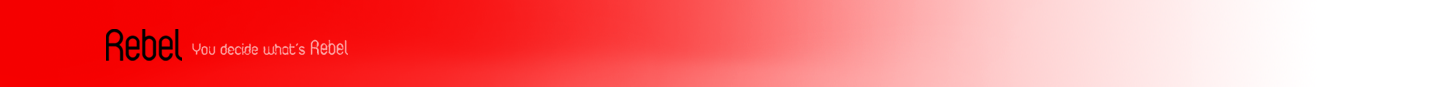
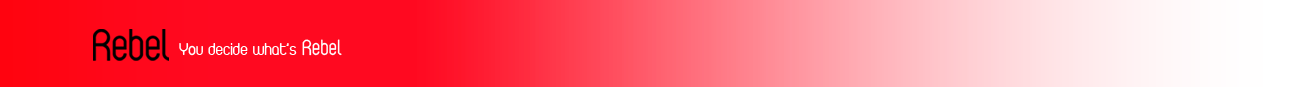
ja se comeca a parecer qq coisa

Changed region(s): [[0.0619, 0.0, 0.2784, 0.7816], [0.2784, 0.7126, 0.6187, 1.0]]

diff --git a/contrast/style.css b/contrast/style.css
@@ -96,7 +96,8 @@ a {
 		width: 1200px;
 		height: 80px;
 		text-indent: -9999px;
-		background: url('assets/images/logo.png') no-repeat;
+		background: url('assets/images/header_BG6.png') no-repeat;
+		/*opacity: 0.3;*/
 		display: block;
 	}
 	

diff --git a/contrast/homeportofolio.php b/contrast/homeportofolio.php
@@ -168,8 +168,8 @@ $loop = new WP_Query( $args );
 				Inicio
 				*/
 				$('.nav.portfolio .navMask ul.navContent').animate({opacity: '0', right: '-200px'}, {queue:false, duration: 100});
-				$('.navigation, .footer').animate({opacity: '0.1'}, {queue:false, duration: 100});
-				$('.logo').animate({opacity: '0.1'}, {queue:false, duration: 100});
+				$('.navigation, .footer').animate({opacity: '0'}, {queue:false, duration: 100});
+				$('.logo').animate({opacity: '0'}, {queue:false, duration: 100});
 				$('.videologo').animate({opacity: '1'}, {queue:false, duration: 100});
 				
 				/*
@@ -184,8 +184,8 @@ $loop = new WP_Query( $args );
 				function(){
 					$('.nav.portfolio .navMask ul.navContent').animate({opacity: '0', right: '-200px'}, {queue:false, duration: 100});
 					$('.navigation, .footer').animate({opacity: '0.1'}, {queue:false, duration: 100});
-					$('.logo').animate({opacity: '0.1'}, {queue:false, duration: 100});
-					$('.videologo').animate({opacity: '1'}, {queue:false, duration: 100});
+					$('.logo').animate({opacity: '0'}, {queue:false, duration: 100});
+					$('.videologo').animate({opacity: '1'}, {queue:false, duration: 300});
 				});
 
 				/*
@@ -202,7 +202,7 @@ $loop = new WP_Query( $args );
 					$('.nav.portfolio .navMask ul.navContent').animate({right: '-200px'}, {queue:false, duration: 100});
 					$('.navigation .footer').animate({opacity: '0.1'}, {queue:false, duration: 100});
 					$('.nav.portfolio .navMask ul.navContent').animate({opacity: '0'}, {queue:false, duration: 300});
-					$('.logo').animate({opacity: '0.1'}, {queue:false, duration: 100});
+					$('.logo').animate({opacity: '0'}, {queue:false, duration: 100});
 					$('.videologo').animate({opacity: '1'}, {queue:false, duration: 100});
 				});
 				

diff --git a/contrast/header.php b/contrast/header.php
@@ -84,7 +84,7 @@
 		<?php $tag_logo = (is_home() || is_front_page()) ? 'h1' : 'div'; ?>
 		<<?php echo $tag_logo; ?> class="logo"><a href="<?php bloginfo('url'); ?>"><?php bloginfo('name'); ?></a></<?php echo $tag_logo; ?>>
 		<div class="videologo" style="opacity:0" >
-		<img src="<?php bloginfo('template_url'); ?>/assets/images/oculos_rebel.png" style="margin-left: 50px; margin-top: 50px;" alt="glasses"></img>
+		<img src="<?php bloginfo('template_url'); ?>/assets/images/oculos_rebel_white.png" style="margin-left: 25px; margin-top: 30px;" alt="glasses"></img>
 		</div>
 		<!-- logo end -->
 		
